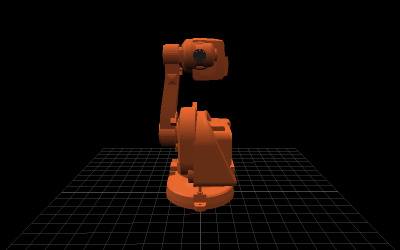
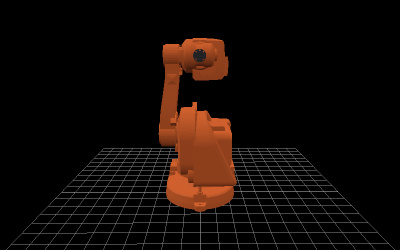
ColladaLoader: Convert color from srgb to linear on load (#23401)
* ColladaLoader: label color textures, material colors as sRGB

* ColladaLoader: convert vertex colors

* use outputEncoding = sRGBEncoding in collada examples

* update failing screenshots

* fix deepscan issues

* Update ColladaLoader.js

* update KMZ example

Changed region(s): [[0.06, 0.14, 0.9, 0.896], [0.03, 0.924, 0.99, 0.98]]

diff --git a/examples/jsm/loaders/ColladaLoader.js b/examples/jsm/loaders/ColladaLoader.js
@@ -36,7 +36,8 @@ import {
 	TextureLoader,
 	Vector2,
 	Vector3,
-	VectorKeyframeTrack
+	VectorKeyframeTrack,
+	sRGBEncoding
 } from 'three';
 import { TGALoader } from '../loaders/TGALoader.js';
 
@@ -1579,7 +1580,7 @@ class ColladaLoader extends Loader {
 
 			material.name = data.name || '';
 
-			function getTexture( textureObject ) {
+			function getTexture( textureObject, encoding = null ) {
 
 				const sampler = effect.profile.samplers[ textureObject.id ];
 				let image = null;
@@ -1627,6 +1628,12 @@ class ColladaLoader extends Loader {
 
 						}
 
+						if ( encoding !== null ) {
+
+							texture.encoding = encoding;
+
+						}
+
 						return texture;
 
 					} else {
@@ -1657,7 +1664,7 @@ class ColladaLoader extends Loader {
 
 					case 'diffuse':
 						if ( parameter.color ) material.color.fromArray( parameter.color );
-						if ( parameter.texture ) material.map = getTexture( parameter.texture );
+						if ( parameter.texture ) material.map = getTexture( parameter.texture, sRGBEncoding );
 						break;
 					case 'specular':
 						if ( parameter.color && material.specular ) material.specular.fromArray( parameter.color );
@@ -1667,19 +1674,23 @@ class ColladaLoader extends Loader {
 						if ( parameter.texture ) material.normalMap = getTexture( parameter.texture );
 						break;
 					case 'ambient':
-						if ( parameter.texture ) material.lightMap = getTexture( parameter.texture );
+						if ( parameter.texture ) material.lightMap = getTexture( parameter.texture, sRGBEncoding );
 						break;
 					case 'shininess':
 						if ( parameter.float && material.shininess ) material.shininess = parameter.float;
 						break;
 					case 'emission':
 						if ( parameter.color && material.emissive ) material.emissive.fromArray( parameter.color );
-						if ( parameter.texture ) material.emissiveMap = getTexture( parameter.texture );
+						if ( parameter.texture ) material.emissiveMap = getTexture( parameter.texture, sRGBEncoding );
 						break;
 
 				}
 
 			}
+
+			material.color.convertSRGBToLinear();
+			if ( material.specular ) material.specular.convertSRGBToLinear();
+			if ( material.emissive ) material.emissive.convertSRGBToLinear();
 
 			//
 
@@ -2015,7 +2026,7 @@ class ColladaLoader extends Loader {
 
 					case 'color':
 						const array = parseFloats( child.textContent );
-						data.color = new Color().fromArray( array );
+						data.color = new Color().fromArray( array ).convertSRGBToLinear();
 						break;
 
 					case 'falloff_angle':
@@ -2481,7 +2492,7 @@ class ColladaLoader extends Loader {
 							break;
 
 						case 'COLOR':
-							buildGeometryData( primitive, sources[ input.id ], input.offset, color.array );
+							buildGeometryData( primitive, sources[ input.id ], input.offset, color.array, true );
 							color.stride = sources[ input.id ].stride;
 							break;
 
@@ -2520,7 +2531,7 @@ class ColladaLoader extends Loader {
 
 		}
 
-		function buildGeometryData( primitive, source, offset, array ) {
+		function buildGeometryData( primitive, source, offset, array, isColor = false ) {
 
 			const indices = primitive.p;
 			const stride = primitive.stride;
@@ -2534,6 +2545,22 @@ class ColladaLoader extends Loader {
 				for ( ; index < length; index ++ ) {
 
 					array.push( sourceArray[ index ] );
+
+				}
+
+				if ( isColor ) {
+
+					// convert the vertex colors from srgb to linear if present
+					const startIndex = array.length - sourceStride - 1;
+					tempColor.setRGB(
+						array[ startIndex + 0 ],
+						array[ startIndex + 1 ],
+						array[ startIndex + 2 ]
+					).convertSRGBToLinear();
+
+					array[ startIndex + 0 ] = tempColor.r;
+					array[ startIndex + 1 ] = tempColor.g;
+					array[ startIndex + 2 ] = tempColor.b;
 
 				}
 
@@ -3981,6 +4008,7 @@ class ColladaLoader extends Loader {
 
 		//
 
+		const tempColor = new Color();
 		const animations = [];
 		let kinematics = {};
 		let count = 0;

diff --git a/examples/webgl_loader_kmz.html b/examples/webgl_loader_kmz.html
@@ -52,10 +52,11 @@
 
 				scene.add( camera );
 
-				const grid = new THREE.GridHelper( 50, 50, 0xffffff, 0x555555 );
+				const grid = new THREE.GridHelper( 50, 50, 0xffffff, 0x333333 );
 				scene.add( grid );
 
 				renderer = new THREE.WebGLRenderer( { antialias: true } );
+				renderer.outputEncoding = THREE.sRGBEncoding;
 				renderer.setPixelRatio( window.devicePixelRatio );
 				renderer.setSize( window.innerWidth, window.innerHeight );
 				document.body.appendChild( renderer.domElement );

diff --git a/examples/webgl_loader_collada_kinematics.html b/examples/webgl_loader_collada_kinematics.html
@@ -101,6 +101,7 @@
 				particleLight.add( pointLight );
 
 				renderer = new THREE.WebGLRenderer();
+				renderer.outputEncoding = THREE.sRGBEncoding;
 				renderer.setPixelRatio( window.devicePixelRatio );
 				renderer.setSize( window.innerWidth, window.innerHeight );
 				container.appendChild( renderer.domElement );

diff --git a/examples/webgl_loader_collada_skinning.html b/examples/webgl_loader_collada_skinning.html
@@ -94,6 +94,7 @@
 				//
 
 				renderer = new THREE.WebGLRenderer( { antialias: true } );
+				renderer.outputEncoding = THREE.sRGBEncoding;
 				renderer.setPixelRatio( window.devicePixelRatio );
 				renderer.setSize( window.innerWidth, window.innerHeight );
 				container.appendChild( renderer.domElement );

diff --git a/examples/webgl_loader_collada.html b/examples/webgl_loader_collada.html
@@ -81,6 +81,7 @@
 				//
 
 				renderer = new THREE.WebGLRenderer();
+				renderer.outputEncoding = THREE.sRGBEncoding;
 				renderer.setPixelRatio( window.devicePixelRatio );
 				renderer.setSize( window.innerWidth, window.innerHeight );
 				container.appendChild( renderer.domElement );
